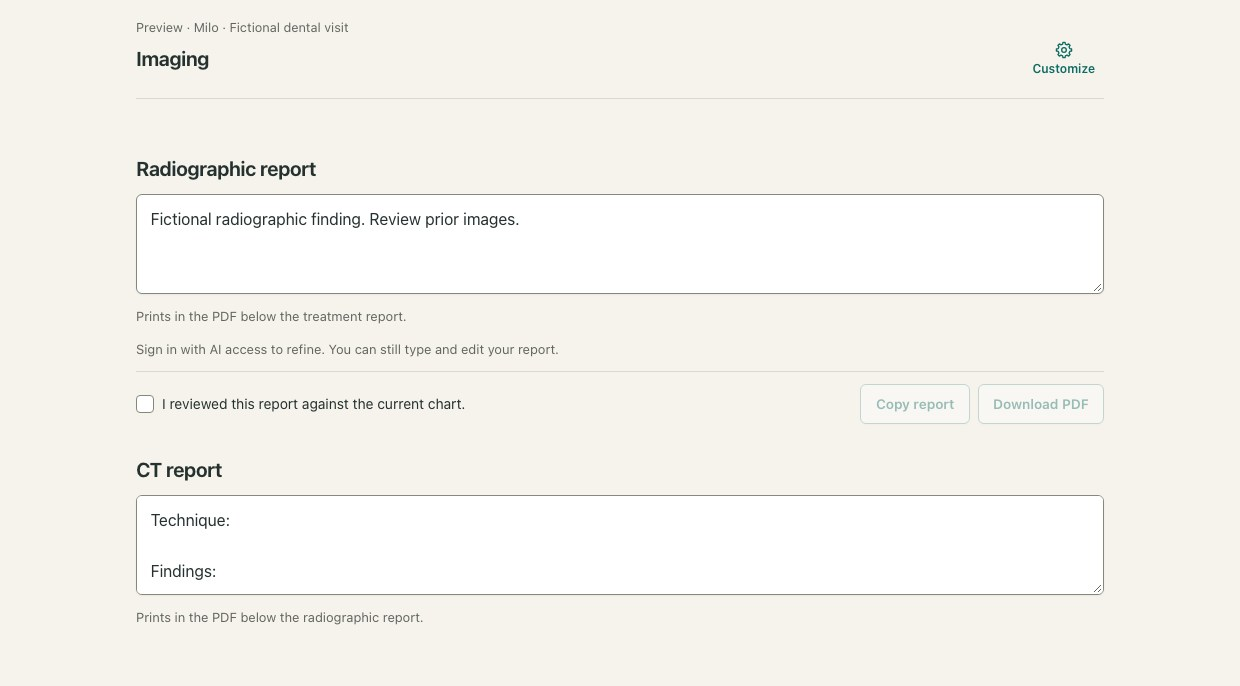
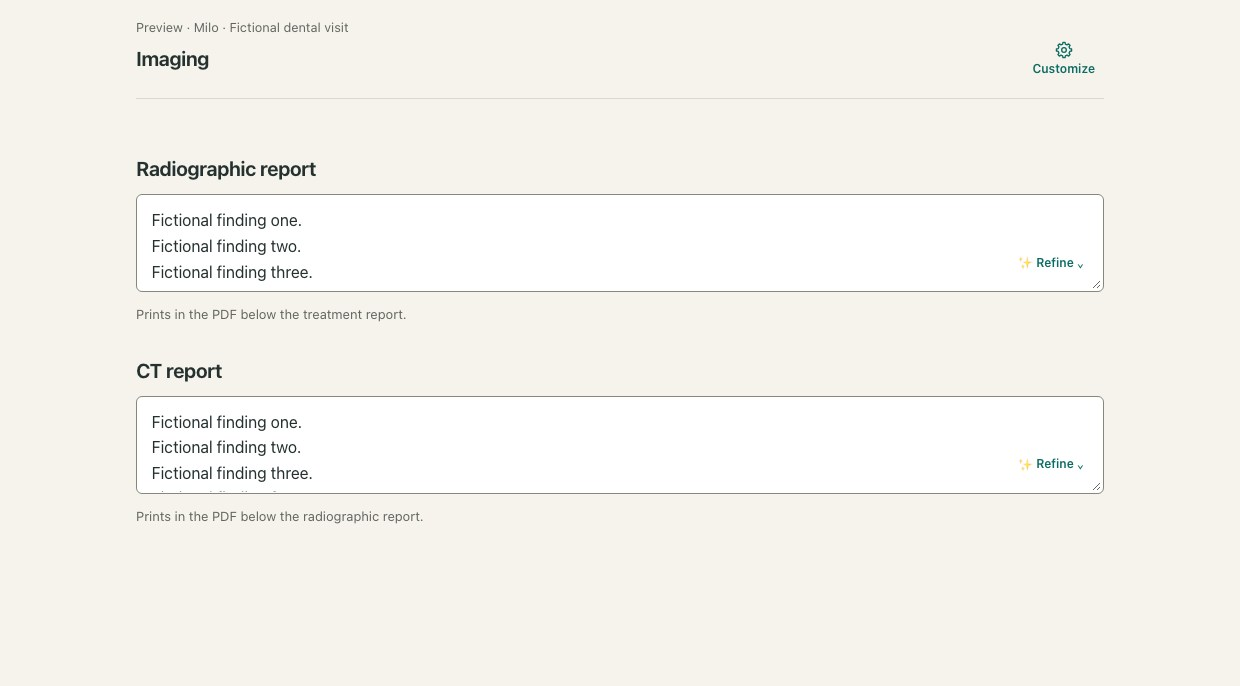
Simplify Imaging exports and align Refine controls

diff --git a/src/components/RefineTextAction.css b/src/components/RefineTextAction.css
@@ -106,41 +106,47 @@
 
 /* Multiline fields keep the Refine control in the same grid cell as the editor.
    Inline space keeps the control clear of the text at every scroll position. */
-.refine-field:has(> :is(textarea, .owner-report__generated-text)):has(> :is(.refine-text__control, .refine-text__disabled)) {
+.refine-field:has(> :is(textarea, .code-field--multiline, .owner-report__generated-text)):has(> :is(.refine-text__control, .refine-text__disabled)) {
   --refine-overlay-clearance: 8.5rem;
   display: grid;
   grid-template-columns: minmax(0, 1fr);
 }
-:is(.refine-field, html .entry-grid-container .entry-grid-form .refine-field):has(> :is(.refine-text__control, .refine-text__disabled))
-  > :is(textarea, .owner-report__generated-text) {
+.refine-field:has(> :is(.refine-text__control, .refine-text__disabled))
+  > :is(textarea, .code-field--multiline, .owner-report__generated-text) {
   grid-area: 1 / 1;
+}
+.refine-field:has(> :is(.refine-text__control, .refine-text__disabled)) > .code-field--multiline > textarea {
+  display: block;
+}
+:is(.refine-field, html .entry-grid-container .entry-grid-form .refine-field):has(> :is(.refine-text__control, .refine-text__disabled))
+  :is(textarea, .owner-report__generated-text) {
   min-block-size: 6em;
   padding-inline-end: var(--refine-overlay-clearance);
 }
-.refine-field:has(> :is(textarea, .owner-report__generated-text)) > .refine-text__control { display: contents; }
-.refine-field:has(> :is(textarea, .owner-report__generated-text)) > .refine-text__disabled,
-.refine-field:has(> :is(textarea, .owner-report__generated-text)) > .refine-text__control > .refine-text {
+.refine-field:has(> :is(textarea, .code-field--multiline, .owner-report__generated-text)) > .refine-text__control { display: contents; }
+.refine-field:has(> :is(textarea, .code-field--multiline, .owner-report__generated-text)) > .refine-text__disabled,
+.refine-field:has(> :is(textarea, .code-field--multiline, .owner-report__generated-text)) > .refine-text__control > .refine-text {
   grid-area: 1 / 1;
   align-self: end;
   justify-self: end;
-  margin-block: 0 4px;
-  margin-inline: 4px 19px;
-  max-inline-size: calc(var(--refine-overlay-clearance) - 28px);
+  margin-block: 0 16px;
+  margin-inline: 4px 12px;
+  max-inline-size: calc(var(--refine-overlay-clearance) - 20px);
   border-radius: var(--radius-sm);
   background: var(--surface);
 }
-.refine-field:has(> :is(textarea, .owner-report__generated-text)) .refine-text__feedback {
+.refine-field:has(> :is(textarea, .code-field--multiline, .owner-report__generated-text)) .refine-text__feedback {
   grid-area: 2 / 1;
   justify-self: end;
 }
 @media (max-width: 640px), (pointer: coarse) {
-  .refine-field:has(> :is(textarea, .owner-report__generated-text)):has(> :is(.refine-text__control, .refine-text__disabled)) {
+  .refine-field:has(> :is(textarea, .code-field--multiline, .owner-report__generated-text)):has(> :is(.refine-text__control, .refine-text__disabled)) {
     --refine-overlay-clearance: 4.75rem;
   }
   .refine-field :is(.refine-text > summary, .refine-text__disabled) { min-height: 44px; }
-  .refine-field:has(> :is(textarea, .owner-report__generated-text)) :is(.refine-text > summary, .refine-text__disabled) {
+  .refine-field:has(> :is(textarea, .code-field--multiline, .owner-report__generated-text)) :is(.refine-text > summary, .refine-text__disabled) {
     min-inline-size: 44px;
     justify-content: center;
   }
-  .refine-field:has(> :is(textarea, .owner-report__generated-text)) .refine-text__label { display: none; }
+  .refine-field:has(> :is(textarea, .code-field--multiline, .owner-report__generated-text)) .refine-text__label { display: none; }
 }

diff --git a/src/components/RadiologyReportSection.tsx b/src/components/RadiologyReportSection.tsx
@@ -210,6 +210,7 @@ export function RadiologyReportSection({ snapshot: originalSnapshot, chartEditor
     {!aiEnabled && showAiNotice && <p className="patient-form__hint">{t('radiologyReport.refineUnavailable')}</p>}
     {!!draft.trim() && <>
     {stale && <p role="status" className="patient-form__hint">{t('radiologyReport.stale')}</p>}
+    {!chartEditor && (
     <div className="radiology-report__review">
     <label className="choice-row radiology-report__check"><input type="checkbox" disabled={readOnly || busy || !draft.trim()} checked={reviewed} onChange={event => {
       if (readOnly || busy) return;
@@ -221,6 +222,7 @@ export function RadiologyReportSection({ snapshot: originalSnapshot, chartEditor
       <button type="button" className="diagram-view__action" disabled={!reviewed || busy} onClick={() => void transfer('pdf')}>{t('radiologyReport.pdf')}</button>
     </div>
     </div>
+    )}
     </>}
     {chartEditor && busy && !reviewed && <p role="status" className="patient-form__hint">{t('radiologyReport.refining')}</p>}
     {error && <p role="alert" className="radiology-report__error">{error}</p>}

diff --git a/src/components/RadiologyReportSection.test.tsx b/src/components/RadiologyReportSection.test.tsx
@@ -310,4 +310,7 @@ it.each(['radiology', 'ct'] as const)('displays %s starter text without saving i
     patientInfo: { ...empty.patientInfo, [key]: 'Previously recorded.' },
   }} />);
   expect(screen.getByRole('textbox', { name: label })).toHaveValue('Previously recorded.');
+  expect(screen.queryByLabelText('I reviewed this report against the current chart.')).not.toBeInTheDocument();
+  expect(screen.queryByRole('button', { name: 'Copy report' })).not.toBeInTheDocument();
+  expect(screen.queryByRole('button', { name: 'Download PDF' })).not.toBeInTheDocument();
 });

diff --git a/src/components/CodeField.tsx b/src/components/CodeField.tsx
@@ -162,7 +162,7 @@ export const CodeField: React.FC<CodeFieldProps> = ({
   );
 
   return (
-    <span className="code-field">
+    <span className={multiline ? 'code-field code-field--multiline' : 'code-field'}>
       {multiline ? (
         <textarea
           {...(rest as React.TextareaHTMLAttributes<HTMLTextAreaElement>)}
